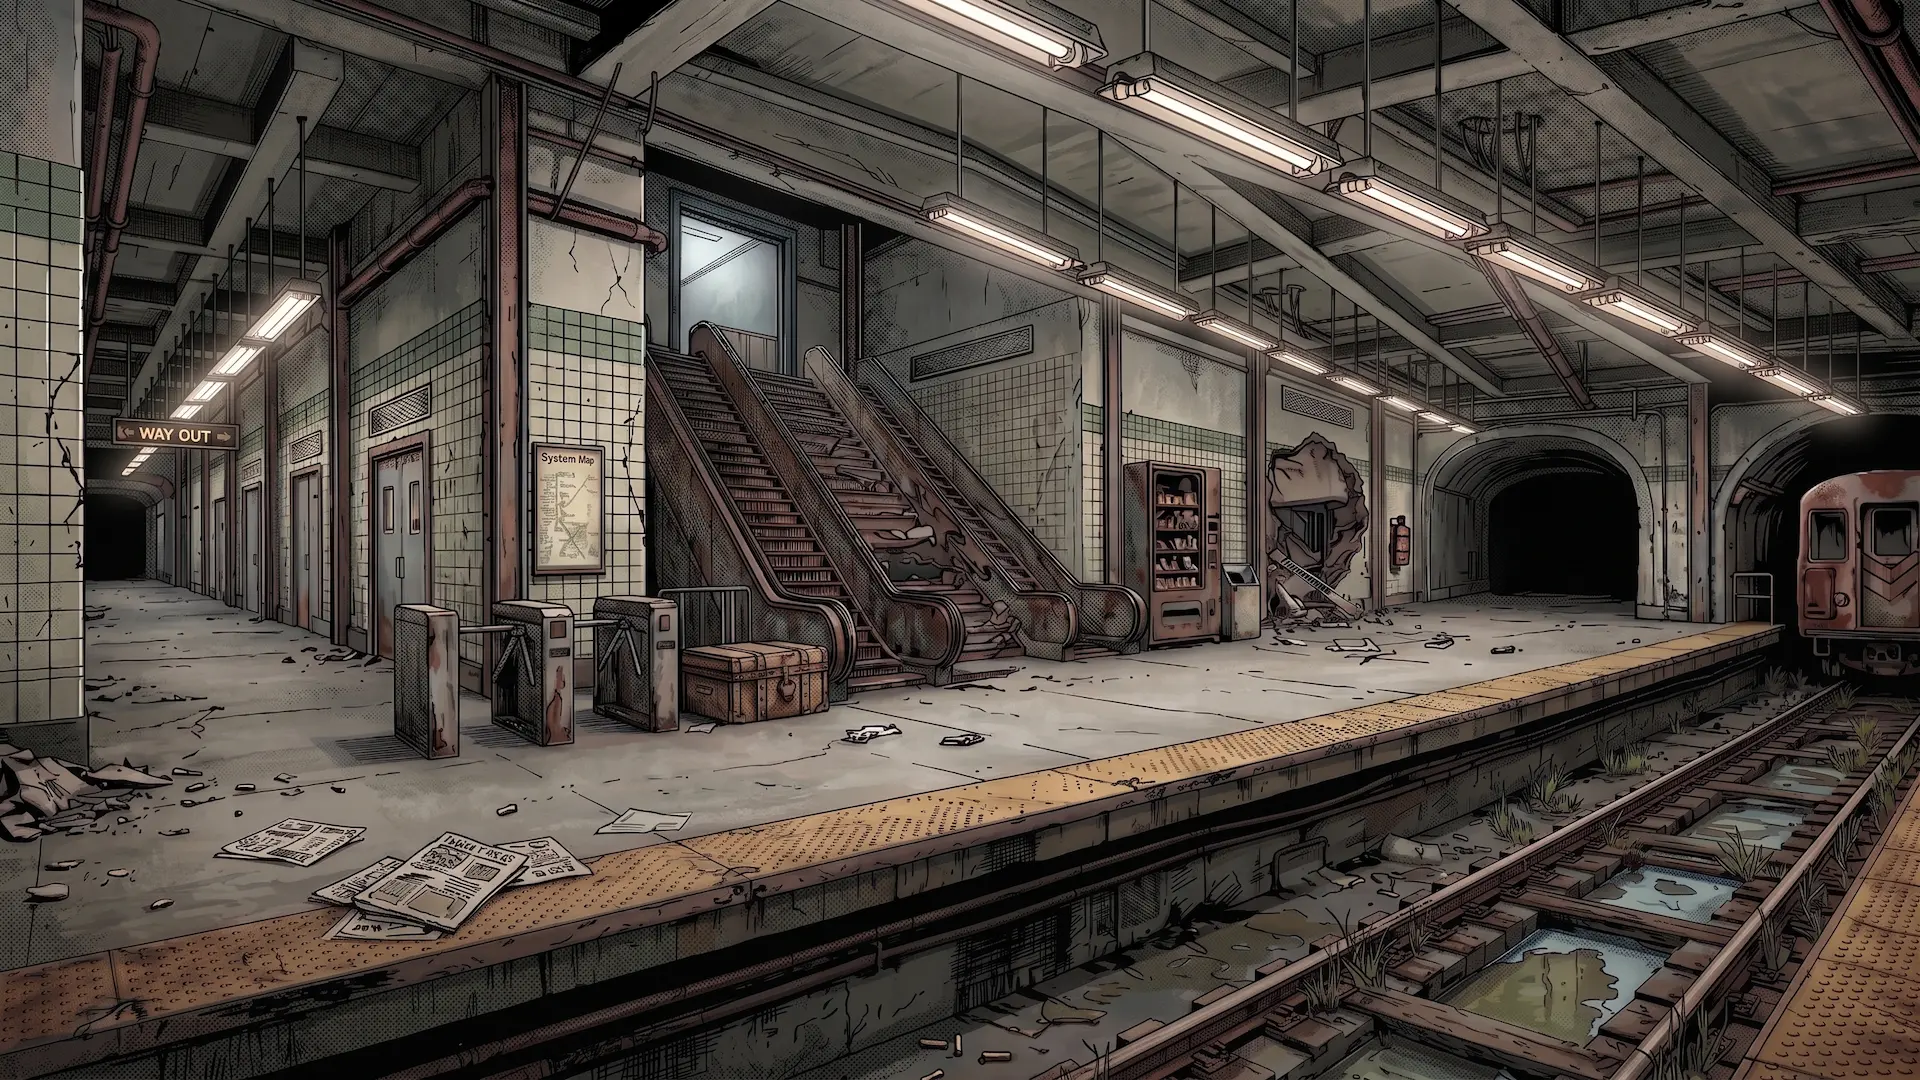
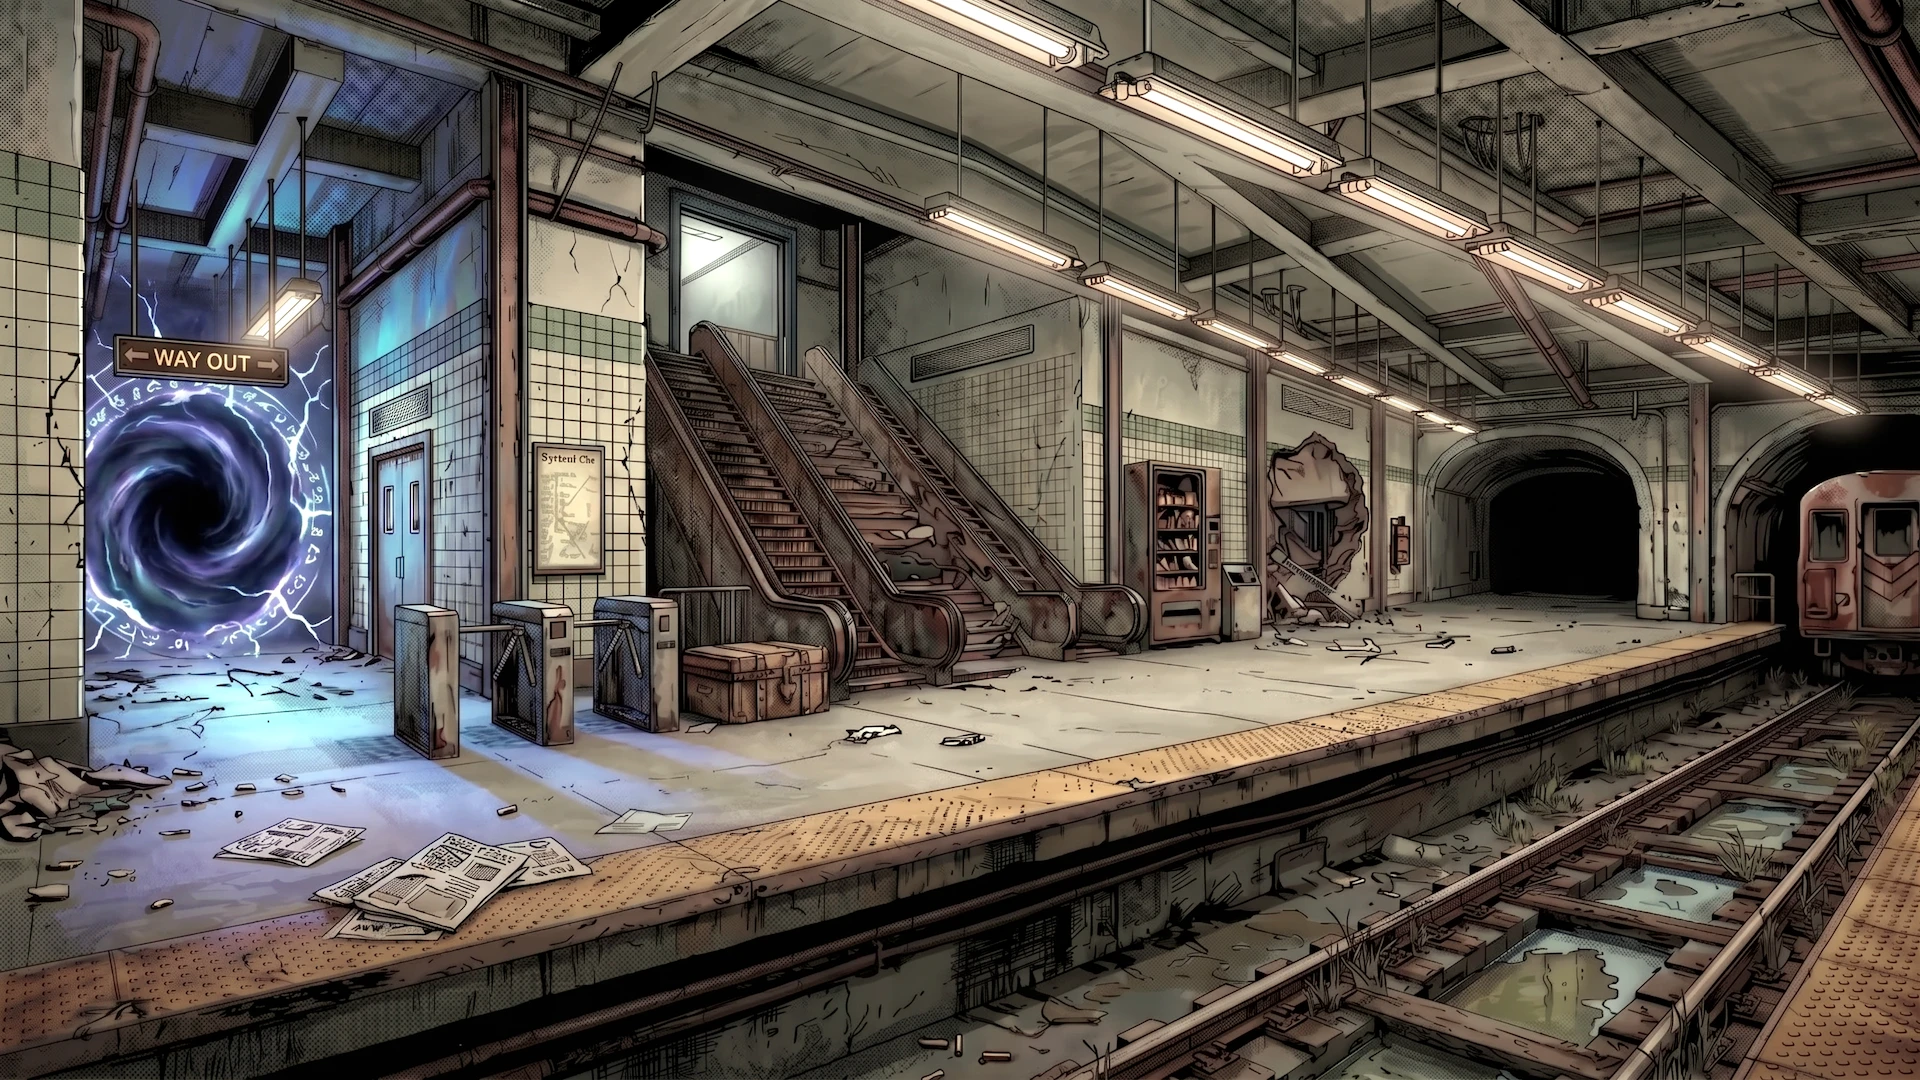
feat: update document title and inject vibej.am widget script

diff --git a/index.html b/index.html
@@ -4,7 +4,8 @@
     <meta charset="UTF-8" />
     <link rel="icon" type="image/svg+xml" href="/favicon.svg" />
     <meta name="viewport" content="width=device-width, initial-scale=1.0" />
-    <title>scavender</title>
+    <title>SCAVENDER</title>
+    <script async src="https://vibej.am/2026/widget.js"></script>
   </head>
   <body>
     <div id="root"></div>
